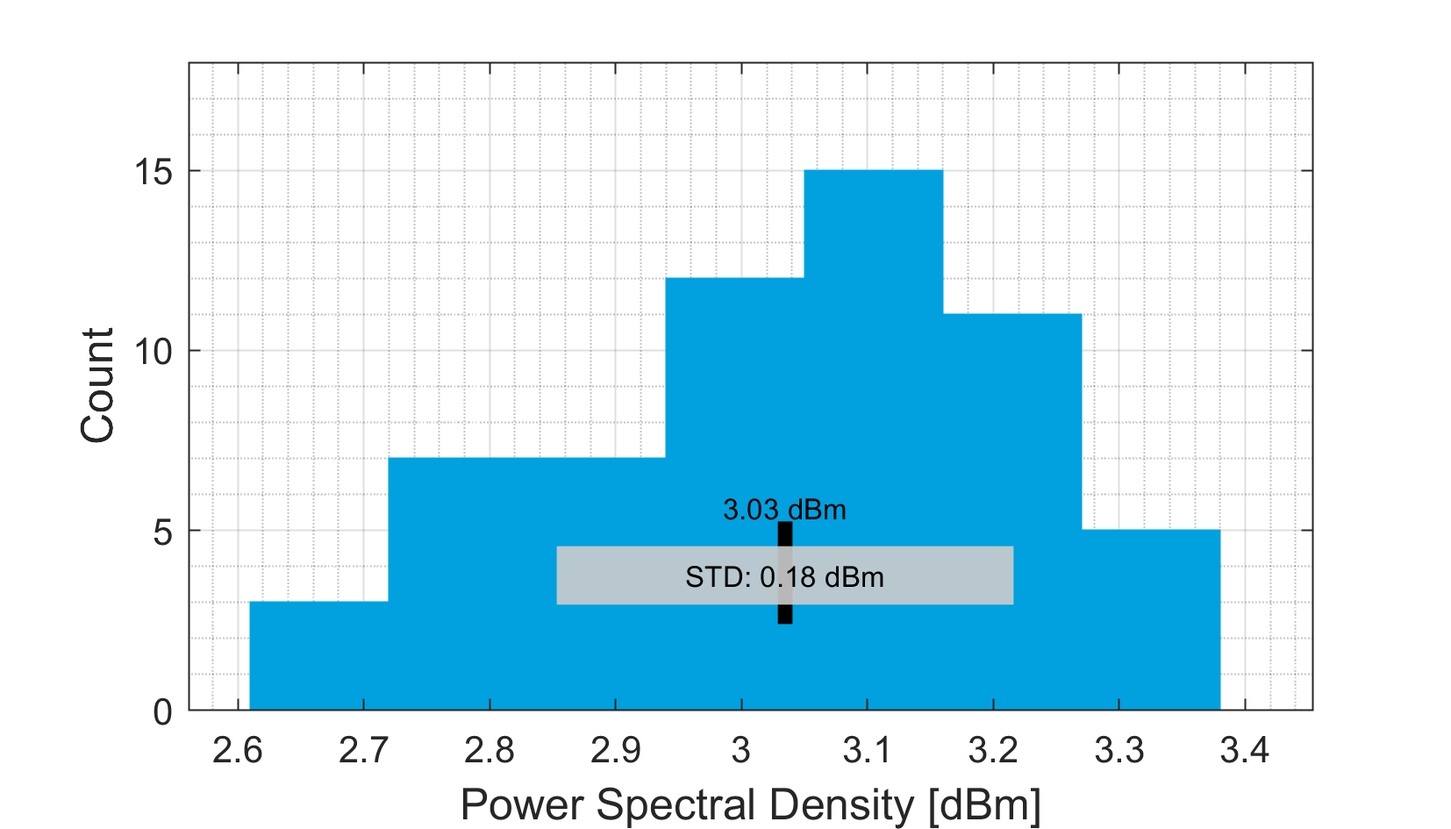
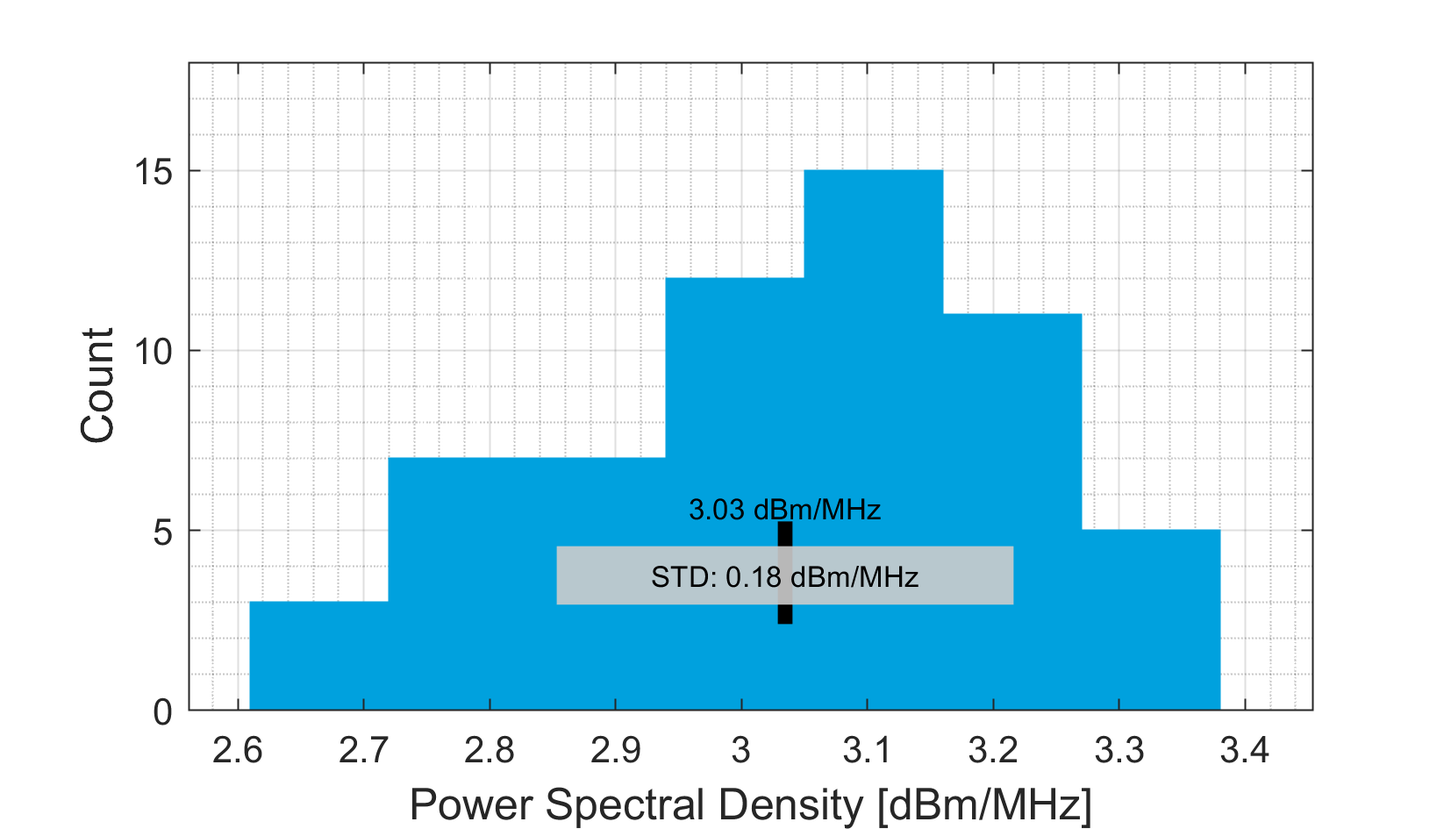
psd units changed

Changed region(s): [[0.2775, 0.9513, 0.7709, 1.0], [0.4933, 0.5831, 0.6167, 0.6444], [0.4317, 0.6751, 0.6475, 0.7058]]

diff --git a/chapter3.tex b/chapter3.tex
@@ -24,7 +24,7 @@ WMS32 software suite comes with the standard regulatory test system (TS8997). Th
 \end{figure}
 
 \section{Spectrum Analyzer}
-The analyzer measures the signal either in the frequency domain or in the time domain (zero span). A MATLAB\textregistered{} script is written to remotely access the instrument. The MATLAB\textregistered{} code then calculates the power and bandwidth. The \acf{SCPI} commands for each task (i.e. changing the frequency, span, etc.) are provided in the manual. Few important functions used in this thesis are explained below.
+The analyzer measures the signal either in the frequency domain or in the time domain (zero span). A MATLAB\textregistered{} script is written to remotely access the instrument. The MATLAB\textregistered{} code then calculates the power and bandwidth. The \acf{SCPI} commands for each task (i.e. changing the frequency, span, etc.) are provided in the manual. Few important functions used in this thesis are explained below (referred from \cite{funsspec}).
 
 \subsection{Trace Mode}
 Signals that are varying are dealt with by setting the trace mode in the spectrum analyzer. The available modes are Clear/Write, Maximum-Hold (Max-Hold), or Average.
@@ -47,7 +47,7 @@ Spectrum analyzers normally sample many more data points than they can display o
 \begin{figure}[H]
 \centering
 \includegraphics[width=0.76\textwidth]{detectorSetting.pdf}
-\caption{Selection of sample to be displayed as a function of detector used}
+\caption{Selection of sample to be displayed as a function of detector used \cite{funsspec}}
 \label{fig:detectorSettings}
 \end{figure}
 
@@ -60,7 +60,7 @@ The choice of detector setting depends on the expected signal. If the signal has
 \begin{figure}[H]
 \centering
 \includegraphics[width=0.5\textwidth]{Generator.pdf}
-\caption{Signal Generator \acs{GUI}}
+\caption{Signal Generator \acs{GUI} \cite{rssmb}}
 \label{fig:gen}
 \end{figure}
 
@@ -68,7 +68,7 @@ The choice of detector setting depends on the expected signal. If the signal has
 In this thesis, a wireless connectivity tester is mainly used as a companion device to communicate with the \acs{DUT} for most of the functions (i.e. power measurement, receiver blocking measurement, occupied channel bandwidth measurement). The wireless connectivity tester can force the \acs{DUT} to be either in transmitter mode or receiver mode. For the \acs{DUT} to be in transmitter mode, the tester sends \acf{ICMP} (ping) packets to the \acs{DUT} and waits for the echo replies from the \acs{DUT}. Because of the low duty cycle (\acs{ICMP} consists of only header data) of the signal from the \acs{DUT}, the results for the \acs{PSD} measurement have a high \ac{MU} explained in Figure \ref{fig:psdpsd}. Therefore, a golden device (fritz box) is used as a companion device for this measurement. All the measurements can also be done using this second device but in this thesis, only \ac{PSD} measurement uses the fritz box.
 
 \subsection{Wireless Connectivity Tester} \label{sec:cmw}
-\acs{RS}\textregistered{} CMW 270 acts as a base station for mobile communication, Wi-Fi\texttrademark{} \acs{AP}, Wi-Fi\texttrademark{} client, Bluetooth\textregistered{} devices, etc. In this thesis, this device is used as a Wi-Fi\texttrademark{} \acs{AP} because it allows us to perform the required measurements (i.e. \acf{PER}). \acs{WLAN} Signaling mode allows us to associate the \acs{DUT} to the companion device for subsequent tests
+\acs{RS}\textregistered{} CMW 270 acts as a base station for mobile communication, Wi-Fi\texttrademark{} \acs{AP}, Wi-Fi\texttrademark{} client, Bluetooth\textregistered{} devices, etc. In this thesis, this device is used as a Wi-Fi\texttrademark{} \acs{AP} because it allows us to perform the required measurements (i.e. \acf{PER}). \acs{WLAN} Signaling mode allows us to associate the \acs{DUT} to the companion device for subsequent tests \cite{cmw}.
 
 \begin{figure}[H]
 \centering
@@ -81,7 +81,7 @@ Configuration of \acs{WLAN} signaling is done by sending commands remotely via a
 
 \subsection{Golden Device} \label{sec:golden}
 
-Fritz Box 7590 can be used as a companion device to receive data from the \acs{DUT}. The \acf{NAS} functionality is used to upload data from \acs{DUT} permanently to a pen drive which is attached to the Fritz Box. First, storage is set up on the computer as a network drive. The procedure to mount the network drive is explained on the website of Fritz Box. A windows batch file is written to continuously upload a big file from the \acs{DUT} to the network drive. The code in the batch (.BAT) file is shown below.
+Fritz Box 7590 can be used as a companion device to receive data from the \acs{DUT}. The \acf{NAS} functionality is used to upload data from \acs{DUT} permanently to a pen drive which is attached to the Fritz Box. First, storage is set up on the computer as a network drive. The procedure to mount the network drive is explained on \cite{fritz} of Fritz Box. A windows batch file is written to continuously upload a big file from the \acs{DUT} to the network drive. The code in the batch (.BAT) file is shown below.
 
 \begin{lstlisting}[language=bash]
 :start
@@ -102,11 +102,11 @@ The script copies a big file in a loop and it makes sure to overwrite the existi
 These Open Switch and Control Platform can be used to perform \acs{RF} switch and control tasks. This thesis uses two of these switching units. It is convenient to have a dedicated device instead of changing the setup for every test case like in the case of splitters and attenuators. The description and usage are explained below.
 
 \subsection{\acs{RS}\textregistered{} \ac{OSP}-B157WN} \label{sec:wn}
-This device switches between conducted measurements and normalized measurements. It allows us to select the appropriate/best antennas when performing normalized measurements and allows us to apply attenuation to the companion device (e.g. in case a real device instead of a \acs{CMW} test equipment is used). In the case of normalized measurements, it is programmed to automatically select the best probe antenna. The block diagram of the switching unit allows us to remotely control the device. The ANT ports are used for normalized measurements are connected to the antennas. The \acs{DUT} ports are used in case of conducted measurements. GEN W(8) is connected to the SMB 100A port of the \acs{OSP}-B157W8 which further connects the signal generator. The companion device can be connected to COMP 1 or COMP 2 but because reconnection is not possible during automation, the companion device is connected to the COMP 1 port of this switching module. The OUT ports are connected to \acs{OSP}-157W8 PORT ports.
+This device switches between conducted measurements and normalized measurements. It allows us to select the appropriate/best antennas when performing normalized measurements and allows us to apply attenuation to the companion device (e.g. in case a real device instead of a \acs{CMW} test equipment is used). In the case of normalized measurements, it is programmed to automatically select the best probe antenna. The block diagram of the switching unit allows us to remotely control the device. The ANT ports are used for normalized measurements are connected to the antennas. The \acs{DUT} ports are used in case of conducted measurements. GEN W(8) is connected to the SMB 100A port of the \acs{OSP}-B157W8 module which further connects the signal generator. The companion device can be connected to COMP 1 or COMP 2 but because reconnection is not possible during automation, the companion device is connected to the COMP 1 port of this switching module. The OUT ports are connected to \acs{OSP}-157W8 PORT ports.
 
 \begin{figure}[H]
 \centering
-\includegraphics[width=0.74\textwidth]{ospwn.pdf}
+\includegraphics[width=1.0\textwidth]{ospwn.pdf}
 \caption{Circuit diagram of the \acs{OSP}-B157WN board}
 \label{fig:ospwn}
 \end{figure}
@@ -121,7 +121,7 @@ where, 602 stands for the name of the switch (i.e. K602) and 0 stands for the sw
 
 \begin{figure}[H]
 \centering
-\includegraphics[width=0.65\textwidth]{ktool.pdf}
+\includegraphics[width=0.75\textwidth]{ktool.pdf}
 \caption{K-Tool \acs{GUI}}
 \label{fig:ktool}
 \end{figure}
@@ -129,24 +129,24 @@ where, 602 stands for the name of the switch (i.e. K602) and 0 stands for the sw
 Further, I wrote a MATLAB\textregistered{} script to get the calibration values for each path switched. The calibration procedure uses the instrument to be calibrated (i.e. \acs{OSP}), signal generator, signal analyzer, and cables. Frequency response is generated for each path after measuring the power values for frequencies starting from 10 MHz up to 6 GHz with a step size of 10 MHz The cables are calibrated separately and subtracted from the final value to get the correct attenuation of the instrument. The frequency response is compared to the factory calibration values to check if the class which switches the instrument works fine. These calibration values are required at the later stage for normalization.
 
 \subsection{\acs{RS}\textregistered{} \ac{OSP}-B157W8}
-This device switches between the Signal Generator and Signal Analyzer depending on the test case (i.e. Receiver Blocking, Occupied Channel Bandwidth, Power, etc.). WMS32 software allows us to read out the calibration files from this switching module. It can also be done by using the correct \acs{SCPI} commands. The signal analyzer is connected to the Rx port of this device. The signal generator is connected to SMB 100A.
+This device not only switches between the Signal Generator and Signal Analyzer depending on the test case (i.e. Receiver Blocking, Occupied Channel Bandwidth, Power, etc.) but also contains couplers and power detectors (Figure \ref{fig:ospw8}). WMS32 software allows us to read out the calibration files from this switching module. It can also be done by using the correct \acs{SCPI} commands. The signal analyzer is connected to the Rx port of this device. The signal generator is connected to SMB 100A.
 
 \begin{figure}[H]
 \centering
-\includegraphics[width=0.74\textwidth]{OSPW8.pdf}
-\caption{Circuit diagram of \acs{OSP}-B157W8 diagram}
-\label{fig:ospw8l}
+\includegraphics[width=0.95\textwidth]{OSPW8.pdf}
+\caption{Circuit diagram of \acs{OSP}-B157W8 diagram \cite{ospw8}}
+\label{fig:ospw8}
 \end{figure}
 
 
 
 \section{\acs{RF} Shielded Box}
-\acs{RS}\textregistered{} TS7124M features high shielding effectiveness over a wide frequency range (300 MHz to 6 GHz), the \acs{RF} test boxes allow measurements on different standards due to the supported frequency range. For radiation testing, the \acs{DUT} is inserted into the chamber using a drawer, which is closed by a tightly sealed door. Antennas installed on the inside of the \acs{RF} Shielded Box then interact with the \acs{DUT} by emitting or receiving electromagnetic radiation. The \acs{DUT} is placed on a tray (Figure \ref{fig:try}) within the \acs{RF} shielded box.
+\acs{RS}\textregistered{} TS7124M features high shielding effectiveness over a wide frequency range (300 MHz to 6 GHz), the \acs{RF} test boxes allow measurements on different standards due to the supported frequency range \cite{ts7124}. For radiation testing, the \acs{DUT} is inserted into the chamber using a drawer, which is closed by a tightly sealed door. Antennas installed on the inside of the \acs{RF} Shielded Box then interact with the \acs{DUT} by emitting or receiving electromagnetic radiation. The \acs{DUT} is placed on a tray (Figure \ref{fig:try}) within the \acs{RF} shielded box.
 
 \begin{figure}[H]
 \centering
 \includegraphics[width=0.55\textwidth]{tray.pdf}
-\caption{ DUT holder tray (\acs{RS}\textregistered{} TS-F24P1)}
+\caption{ DUT holder tray (\acs{RS}\textregistered{} TS-F24P1) \cite{ts7124}}
 \label{fig:try}
 \end{figure}
 
@@ -154,7 +154,7 @@ The antennas can be placed and oriented in a customer-specific geometrical arran
 
 \begin{figure}[H]
 \centering
-\includegraphics[width=0.55\textwidth]{chamber.pdf}
+\includegraphics[width=0.7\textwidth]{chamber.pdf}
 \caption{Full antenna ring with 6 vivaldi antennas}
 \label{fig:box}
 \end{figure}
@@ -181,7 +181,7 @@ Polarization & Linear (norm.)\\
     \begin{minipage}[c]{.2\textwidth}
         \includegraphics[width=\linewidth]{ProbeAntenna.jpg}
     \end{minipage}
-    \caption{Specification of the Probe Antenna (\acs{RS}\textregistered{} - TS-F24-V2)}
+    \caption{Specification of the Probe Antenna (\acs{RS}\textregistered{} - TS-F24-V2) \cite{ts7124}}
 \label{fig:probes}
 \end{figure}      
 
@@ -205,7 +205,7 @@ Frequency & 2.4 and 5 GHz \\
     \begin{minipage}[c]{.2\textwidth}
         \includegraphics[width=\linewidth]{SingleAntennaDUT.pdf}
     \end{minipage}
-    \caption{Specification of the single-antenna \acs{DUT} (AC600 High Gain Wireless Dual Band USB Adapter, Archer T2UH)}
+    \caption{Specification of the single-antenna \acs{DUT} (AC600 High Gain Wireless Dual Band USB Adapter, Archer T2UH) \cite{tplinksingle}}
 \label{fig:singleAntennaDUT}
 \end{figure}     
 
@@ -226,6 +226,6 @@ Frequency & 2.4 and 5 GHz \\
     \begin{minipage}[c]{.2\textwidth}
         \includegraphics[width=\linewidth]{MultiAntennaDUT.pdf}
     \end{minipage}
-    \caption{Specification of the multi-antenna \acs{DUT} (AC1900 High Gain Wireless Dual Band USB Adapter, Archer T9UH)}
+    \caption{Specification of the multi-antenna \acs{DUT} (AC1900 High Gain Wireless Dual Band USB Adapter, Archer T9UH)\cite{tplinkmulti}}
 \label{fig:multiAntennaDUT}
 \end{figure}     

diff --git a/Chapter4.tex b/Chapter4.tex
@@ -17,14 +17,14 @@ Transmit & 2400 MHz to 2483.5 MHz \\
 Receive & 2400 MHz to 2483.5 MHz \\
 \bottomrule
 \end{tabular} 
-\caption{Service frequency bands}
+\caption{Service frequency bands \cite{etsi300328}}
 \label{tab:bands}
 \end{center}
 \end{table}
 The methodologies for this measurement are as follows:
 \begin{enumerate}
-  \item Associate the \acs{DUT} with the companion device. This step is explained in section \ref{sec:cmw}.
-   \item Enable the Packet Generator with \acs{ICMP} or also known as ping packets. The companion device (\acs{RS}\textregistered{} wireless connectivity tester) supports the generation of \acs{ICMP} echo requests (ping) packets. These packets are targeted at the \acsp{DUT} \acs{IP} stack. Ping operates by sending \acs{ICMP} echo request packets to the \acs{DUT} and waiting for an \acs{ICMP} echo reply back. The \acs{DUT} is expected to answer with a well-defined echo reply packet whose payload is identical to the payload of the corresponding request. These packets are generated so that the bandwidth of the \acs{DUT} signal can be measured. Pinging triggers the \acs{DUT} to transmit a burst of a certain length which is useful for combined signal path measurements.
+  \item Associate the \acs{DUT} with the companion device (wireless connectivity tester). This step is explained in section \ref{sec:cmw}.
+   \item Enable the Packet Generator with \acf{ICMP} or also known as ping packets. The companion device (\acs{RS}\textregistered{} wireless connectivity tester) supports the generation of \acs{ICMP} echo requests (ping) packets. These packets are targeted at the \acsp{DUT} \acs{IP} stack. Ping operates by sending \acs{ICMP} echo request packets to the \acs{DUT} and waiting for an \acs{ICMP} echo reply back. The \acs{DUT} is expected to answer with a well-defined echo reply packet whose payload is identical to the payload of the corresponding request. These packets are generated so that the bandwidth of the \acs{DUT} signal can be measured. Pinging triggers the \acs{DUT} to transmit a burst of a certain length which is useful for combined signal path measurements.
 
 \textbf{image of ping packet}
 
@@ -56,7 +56,7 @@ The sweep time of 10 seconds is used instead of 1 second which is mentioned in t
 \item Find the \ac{OBW}. This is well explained in the Figure \ref{fig:tracebw}.
 \begin{figure}[H]
 \centering
-\includegraphics[width=0.65\textwidth]{TraceBandwidth.png}
+\includegraphics[width=0.75\textwidth]{TraceBandwidth.png}
 \caption{Trace of the signal from the analyzer after post processing. The \acs{OBW} is 99\% (dark blue) of the total bandwidth of the signal}
 \label{fig:tracebw}
 \end{figure}
@@ -65,7 +65,7 @@ To locate the occupied channel bandwidth of the signal from the trace produced b
   
 \section{\acl{PSD} measurement}
 \label{sec:psdmeas}
-The \acl{PSD} is the mean \acf{EIRP} spectral density in a 1 MHz bandwidth during a transmission burst. For equipment using wide band modulations other than \acs{FHSS}, the maximum \acf{PSD} is limited to 10 dBm per MHz. This test, like the occupied channel bandwidth measurement, requires the \acs{DUT} to transmit data so that the analyzer can save the trace for the calculation of \acf{PSD}. The steps for this measurement are as follows:
+The \acl{PSD} is the mean \acf{EIRP} spectral density in a 1 MHz bandwidth during a transmission burst. For equipment using wide band modulations other than \acs{FHSS}, the maximum \acf{PSD} is limited to 10 dBm/MHz \cite{etsi300328}. This test, like the occupied channel bandwidth measurement, requires the \acs{DUT} to transmit data so that the analyzer can save the trace for the calculation of \acf{PSD}. The steps for this measurement are as follows:
 
 \begin{enumerate}
   \item Associate the \acs{DUT} with the companion device. Fritz Box acts as a companion device for this measurement. 
@@ -92,9 +92,10 @@ Detector & \ac{RMS}\\
 \label{tab:analyzerpsd}
 \end{center}
 \end{table}
-The standard suggests the number of sweep points to be greater than 8350. If the analyzers are not supporting this number of sweep points then the frequency band may be segmented. The measurement device used supports maximum of 15000 sweep points, but sweep points was set to 8500 in this case. Our aim being to reduce \acf{MU}, the sweep count is increased to 10 rather than using a single sweep. The maximum value of trace is saved with the help of Max-Hold trace mode.
+The standard suggests the number of sweep points to be greater than 8350. If the analyzers are not supporting this number of sweep points then the frequency band may be segmented. The measurement device used supports maximum of 15000 sweep points, but sweep points was set to 8500 in this case. The maximum value of trace is saved with the help of Max-Hold trace mode. 
   
-\item Since the signal from the \acs{DUT} is non-continuous, wait for the trace to stabilize and save the trace data to a mat file.
+\item Since the signal from the \acs{DUT} is non-continuous, wait for the trace to stabilize and save the trace data to a mat file. In this thesis, sweep count is kept constant and is equal to 10. This is because it was seen that the trace was usually stable after 10 sweeps.
+
  
  \item Use the following formula to add up the values of power for all sample points.
   $$ P_{sum} = \sum_{n=1}^{k} P_{sample}(n) $$ where k is the total number of samples and n is the actual sample number
@@ -112,8 +113,8 @@ The standard suggests the number of sweep points to be greater than 8350. If the
   
  \begin{figure}[H]
 \centering
-\includegraphics[width=0.75\textwidth]{PSD_trace.png}
-\caption{Trace of the signal from the analyzer after post processing. The \acs{PSD} is 3.3015 dBm at 2418 MHz}
+\includegraphics[width=0.85\textwidth]{PSD_trace.png}
+\caption{Trace of the signal from the analyzer after post processing. The \acs{PSD} is 3.3015 dBm/MHz at 2418 MHz}
 \label{fig:psdtraceI}
 \end{figure}
   
@@ -124,23 +125,23 @@ Receiver blocking is a measure of the ability of the equipment to receive a want
 
  \begin{figure}[H]
 \centering
-\includegraphics[width=0.9\textwidth]{flowchart.pdf}
+\includegraphics[width=0.99\textwidth]{flowchart.pdf} \vspace{-1.2cm}
 \caption{Flowchart for Receiver Blocking measurement}
 \label{fig:flowchartrxvlock}
 \end{figure}
 
-The association of the \acs{DUT} with the companion is talked about in all other test procedures as well as in the previous chapter. A \acf{PER} measurement is configured on the companion device. The \acs{PER} measurement transmits user data to the \acs{DUT} and calculates the \acs{PER} of acknowledged packets to transmitted packets. The number of MAC test packets to be transmitted is configurable. Each of the test packets carries the same amount of user data to the \acs{DUT}. The test packets can be separated by unused packets. The diagram in the lower part of the dialog shows the \acs{PER} vs time/transmitted packets.
+The association of the \acs{DUT} with the companion (wireless connectivity tester) is talked about in all other test procedures as well as in the previous chapter. A \acf{PER} measurement is configured on the companion device. The \acs{PER} measurement transmits user data to the \acs{DUT} and calculates the \acs{PER} of acknowledged packets to transmitted packets. The number of \acs{MAC} test packets to be transmitted is configurable. Each of the test packets carries the same amount of user data to the \acs{DUT}. The test packets can be separated by unused packets. The diagram in the lower part of the dialog shows the \acs{PER} vs time/transmitted packets.
 
  \begin{figure}[H]
 \centering
-\includegraphics[width=0.75\textwidth]{PER_CMW.jpeg}
-\caption{\ac{PER} measurement on the \acs{RS} \acs{CMW}}
+\includegraphics[width=0.85\textwidth]{PER_CMW.jpeg} 
+\caption{\ac{PER} measurement on the \acs{RS} Wireless Connectivity Tester}
 \label{fig:per}
 \end{figure}
 
-The next phase is to find the minimum wanted signal ($P_{min}$) without the blocker (signal generator). To do this, the power of the transmitted bursts is kept reducing until the \acs{PER} reaches just below 10\%. In order to increase the speed of the measurement, the program first does coarse precision (i.e. reduces power by steps of 1 dBm and sets the transmitted packets to as low as 200). Then for precise measurement, the power is reduced in steps of 0.1 dBm and 2000 packets are transmitted. The \acs{PER} window in the figure above shows the \acs{PER} measurement taking place. \\
+The next phase is to find the minimum wanted signal ($P_{min}$) without the blocker (signal generator). To do this, the power of the transmitted bursts is kept reducing until the \acs{PER} reaches just below 10\%. In order to increase the speed of the measurement, the program first does coarse precision (i.e. reduces power by steps of 1 dB and sets the transmitted packets to as low as 200). Then for precise measurement, the power is reduced in steps of 0.1 dB and 2000 packets are transmitted. The \acs{PER} window in the figure above shows the \acs{PER} measurement taking place. \\
   
-This is followed by keeping the wanted Signal ($P_{min}$ + 6 dB) constant and injecting a blocker signal using a signal generator at the frequency mentioned in the standard. \acs{PER} measurement then checks for the resulting \acs{PER}. The blocking signal of -34 dBm is applied in front of the \acs{DUT} as mentioned by the standard. Then, the transmitted burst power is kept constant thought-out the measurement by adding 6 dBm to the minimum unwanted signal. The blocker level is kept increasing until the 10\% criterion is reached. This is not required by the standard but it shows us by how much we can take the power level above the value mentioned in the standard. It also gives us an impression of how good the \acs{DUT} performs and allows us to assess the \acf{MU}.
+This is followed by keeping the wanted Signal ($P_{min}$ + 6 dB) constant and injecting a blocker signal using a signal generator at the frequency mentioned in the standard. \acs{PER} measurement then checks for the resulting \acs{PER}. The blocking signal of -34 dBm is applied in front of the \acs{DUT} as mentioned by the standard. Then, the transmitted burst power is kept constant thought-out the measurement by adding 6 dB to the minimum unwanted signal. The blocker level is kept increasing until the 10\% criterion is reached. This is not required by the standard but it shows us by how much we can take the power level above the value mentioned in the standard. It also gives us an impression of how good the \acs{DUT} performs and allows us to assess the \acf{MU}.
 
 
 

diff --git a/Chapter6.tex b/Chapter6.tex
@@ -7,8 +7,8 @@ The flow chart in Figure \ref{fig:1} explains the procedure for normalized measu
 
 \begin{figure}[H]
 \centering
-\includegraphics[scale = 0.6]{normflowchart.pdf}
-\vspace{-0.5cm} \caption{Flowchart explaining the novel approach for wireless coexistence testing}
+\includegraphics[scale = 0.65]{normflowchart.pdf}
+\vspace{-2cm} \caption{Flowchart explaining the novel approach for wireless coexistence testing}
 \label{fig:1} 
 \end{figure}
 
@@ -21,7 +21,7 @@ This section also gives a brief overview of the implementation of the developed 
 \begin{figure}[H]
 \centering
 \includegraphics[scale = 0.6]{arrow.pdf}
-\caption{Flow of the automation software}
+\vspace{-2cm}\caption{Flow of the automation software}
 \label{fig:2} 
 \end{figure}
 
@@ -35,8 +35,8 @@ The steps for implementation of radiated measurements are explained as follows:
 
 \begin{figure}[H]
 \centering
-\includegraphics[scale = 0.16]{hwdesign.png}
-\caption{Design for the implementation of the system}
+\includegraphics[scale = 0.18]{hwdesign.png}
+\caption{Design for the implementation of the wireless coexistence system}
 \label{fig:3} 
 \end{figure}
 
@@ -63,7 +63,7 @@ Also, one wouldn't necessarily need output arguments for the methods of the hand
 
 \begin{figure}[H]
 \centering
-\includegraphics[scale = 0.55]{ClassDiagram.pdf}
+\includegraphics[scale = 0.65]{ClassDiagram.pdf}
 \caption{UML Class Diagram}
 \label{fig:cd} 
 \end{figure}
@@ -71,9 +71,9 @@ Also, one wouldn't necessarily need output arguments for the methods of the hand
 The seven classes build the core of the developed software tool . For better overview and understanding some attributes and methods are omitted in this class diagram (Figure \ref{fig:cd}). Each of these classes is derived from the base class Handle. The CAutomation class instantiates objects from all the other six classes. Five of those classes are the instruments used in this thesis, i.e., Spectrum Analyzer, Signal Generator, Connectivity Tester, two Switching modules, and the last class named CDUT, specifies the \acs{DUT} standard, operating frequency, bandwidth, \acs{EIRP}, and so on.
 
 \section{\acs{EIRP} Measurement}
-\acs{EIRP} is measured once for every \acs{DUT} used. This is done in a conducted manner. The Figure \ref{fig:Ng1} explains the implementation of this measurement. The \acs{DUT} is associated with the companion device via a \acs{WLAN} signaling mode. The \acs{DUT} is set to transmitter mode by configuring \acs{ICMP} packets on the companion device. The spectrum analyzer therefore, measures the power of the signal from the \acs{DUT}. The \acs{EIRP} is then measured using the formula \ref{eq:eirp}.
+\acs{EIRP} is measured once for every \acs{DUT} used. Maximum \acs{EIRP} is generally measured using \acs{OTA} measurements.  But, in this case the \acs{EIRP} estimation is done by measuring the conducted output power and applying the stated antenna gain. The Figure \ref{fig:Ng1} explains the implementation of this measurement. The \acs{DUT} is associated with the companion device via a \acs{WLAN} signaling mode. The \acs{DUT} is set to transmitter mode by configuring \acs{ICMP} packets on the companion device. The spectrum analyzer therefore, measures the power of the signal from the \acs{DUT}. The \acs{EIRP} is then measured using the formula \ref{eq:eirp}.
 \begin{equation}
-\mbox{EIRP}  = \mbox{Power}_{\mbox{analyzer}} - \mbox{Attenuation}_{\mbox{cable}} - \mbox{Antenna Gain} \label{eq:eirp}
+\mbox{EIRP}  = \mbox{Power}_{\mbox{analyzer}} - \mbox{Attenuation}_{\mbox{cable}} + \mbox{Antenna Gain} \label{eq:eirp}
 \end{equation}
 This measurement can also be done in an \acf{AC} and would give a better result by providing us the radiation pattern of the \acs{DUT} antenna.
 

diff --git a/Chapter5.tex b/Chapter5.tex
@@ -1,6 +1,6 @@
 \chapter{Conducted Measurements} \label{chap:5}
 
-The term Conducted Measurements refers to measurements performed using \acs{RF} cables connected between the antenna of the \acs{DUT} and the instruments (off-air). Most \acs{WLAN} regulatory compliance mandate that conducted measurements shall be used for most compliance tests (transmit power, in-band spectrum density, bandwidth, and parts of the spurious scan) for a \acs{DUT} with antenna connector(s) and using a dedicated external antenna(s), or for a \acs{DUT} with integrated antenna(s) but with temporary antenna connector(s) provided. As mentioned in the chapter \ref{chap:test}, this thesis implements tests for \acf{OBW} measurement, \acf{PSD} measurement, and Receiver Blocking measurement.
+The term Conducted Measurements refers to measurements performed using \acs{RF} cables connected between the antenna port of the \acs{DUT} and the instruments (off-air). Most \acs{WLAN} regulatory compliance mandate that conducted measurements shall be used for most compliance tests (transmit power, in-band spectrum density, bandwidth, and parts of the spurious scan) for a \acs{DUT} with antenna connector(s) and using a dedicated external antenna(s), or for a \acs{DUT} with integrated antenna(s) but with temporary antenna connector(s) provided \cite{conducted}. As mentioned in the chapter \ref{chap:test}, this thesis implements tests for \acf{OBW} measurement, \acf{PSD} measurement, and Receiver Blocking measurement.
 
 \section{Using Attenuator and Splitter}
 \label{sec:att}
@@ -8,8 +8,8 @@ Figures \ref{fig:Ng1} and \ref{fig:Ng2} show the block diagram of the connection
 
 \begin{figure}[H]
 \centering
-\includegraphics[width=0.65\textwidth]{conductedtx.pdf}
-\vspace{-0.2cm}  \caption{Conducted measurements using attenuators and splitters: \acs{DUT} behaves as a transmitter}
+\includegraphics[width=0.8\textwidth]{conductedtx.pdf}
+\vspace{-0.5cm}  \caption{Conducted measurements using attenuators and splitters: \acs{DUT} behaves as a transmitter}
  \label{fig:Ng1} 
 \end{figure}
 
@@ -17,8 +17,8 @@ The hardware setup shown in Figure \ref{fig:Ng1} performs the \acf{OBW} and \acf
 
 \begin{figure}[H]
 \centering
-   \includegraphics[width=0.65\textwidth]{conductedrx.pdf}
- \vspace{-0.2cm} \caption{Conducted measurements using attenuators and splitters: \acs{DUT} behaves as a receiver}
+   \includegraphics[width=0.8\textwidth]{conductedrx.pdf}
+ \vspace{-0.5cm} \caption{Conducted measurements using attenuators and splitters: \acs{DUT} behaves as a receiver}
    \label{fig:Ng2}
 \end{figure}
 
@@ -40,7 +40,7 @@ For the receiver blocking test case, the blocker power level at the signal gener
 \end{aligned}
 \end{equation}
 
-For example, the standard mentions that at blocker frequency of 2360 MHz, the required blocker level in front of the \acs{DUT} is -53 dBm. Assume the total attenuation is 40 dB and the antenna gain of the \acs{DUT} is 3 dBi. Then,
+For example, the standard mentions that at blocker frequency of 2380 MHz, the required blocker level in front of the \acs{DUT} is -53 dBm. Assume the total attenuation is 40 dB and the antenna gain of the \acs{DUT} is 3 dBi. Then,
 $$\mbox{Blocker Level at the Generator} = -53 \mbox{dBm} + 40 \mbox{dB}+ 3 \mbox{dBi} = -10 \mbox{dBm}$$ 
 The results from Receiver Blocking and \acf{OBW} measurements are compared with the implementation in the WMS32 software suite. The results match and therefore the next step is to perform normalized measurements, which is explained in the chapter \ref{chap:normalized}.
 

diff --git a/conclusion.tex b/conclusion.tex
@@ -3,7 +3,8 @@
 The achieved findings of this work shall be described in this chapter. Furthermore, an outlook for future work will be drawn.
 
 \section{Achievements}
-
+This work presents a coexistence testing solution for devices with or without antenna ports, based on a novel regulatory test system that has a compact size and high quality shielding and allows lower coupling losses. The project implements normalized and conducted measurements to perform the device-testing, and investigates the MU for both cases. To this end, an algorithm for the optimization of antenna pairs is implemented on both the simulation and the measurements. After that, the hardware and software implementations for PSD and receiver blocking test cases are done based on the standard (link). The results for both single and multi-antennas DUTs showed that comparable MU results to the conducted measurements can be achieved by the normalized approach. While studying the MU results for the presented test cases, many factors may influence the accuracy of the test results. In addition to the errors caused by thermal noise, there are interferences and cross-talk between the measurement antennas that can influence the results. Also, the results of the MU for single-antennas DUT are proved to be better than those of multi-antennas. Finally, in-band testing determines the performance of wireless devices and the thresholds where wireless communications are degraded as well as the threshold where communications stop i.e where the limits set by the standards are exceeded. The report of these tests provides the necessary data to make a more informed risk analysis of the radio?s behavior and to enable troubleshooting the reported interference problems. The results prove that performing the normalized OTA measurements doesn?t result in a major degrading the quality of the evaluation.
+Further investigations and research are possible to improve this work; for the selection of best probe antennas within the test chamber, the simulation can be improved by including other effects that can increase the accuracy of the simulation to match the choice based on actual measurements such as minor reflections in the chamber and isolation between the probe antennas (link).
 
 
 \section{Outlook}

diff --git a/Chapter7.tex b/Chapter7.tex
@@ -109,8 +109,8 @@ It is comprehensible from the figure \ref{fig:otavscond2} as well as the table \
 \toprule
  & \textbf{Conducted Measurement} & \textbf{Normalized Measurement} \\ 
 \midrule 
-\textbf{Mean} & 3.15 dBm & 3.03 dBm\\
-\textbf{Standard Deviation} & 0.08 dBm & 0.18 dBm\\
+\textbf{Mean} & 3.15 dBm/MHz & 3.03 dBm/MHz\\
+\textbf{Standard Deviation} & 0.08 dBm/MHz & 0.18 dBm/MHz\\
 \bottomrule
  \end{tabular}
   \caption{\acf{MU} results for \acs{PSD} measurement} \label{tab:tab2}
@@ -184,8 +184,8 @@ The same three measurements are performed using multi-antenna \acs{DUT}. The mea
            &  & Standard Deviation & 0.02 MHz \\
            
            \midrule
-           Power Spectral Density &   maximum (mean(EIRP)) & Mean &  3.20 dBm \\
-           & & Standard Deviation & 0.11 dBm \\          
+           Power Spectral Density &   maximum (mean(EIRP)) & Mean &  3.20 dBm/MHz \\
+           & & Standard Deviation & 0.11 dBm/MHz \\          
            \bottomrule
         \end{tabular}}
         \caption{\acf{MU} results for measurements using Multi-Antenna \acs{DUT}}\label{tab:Tab4}
